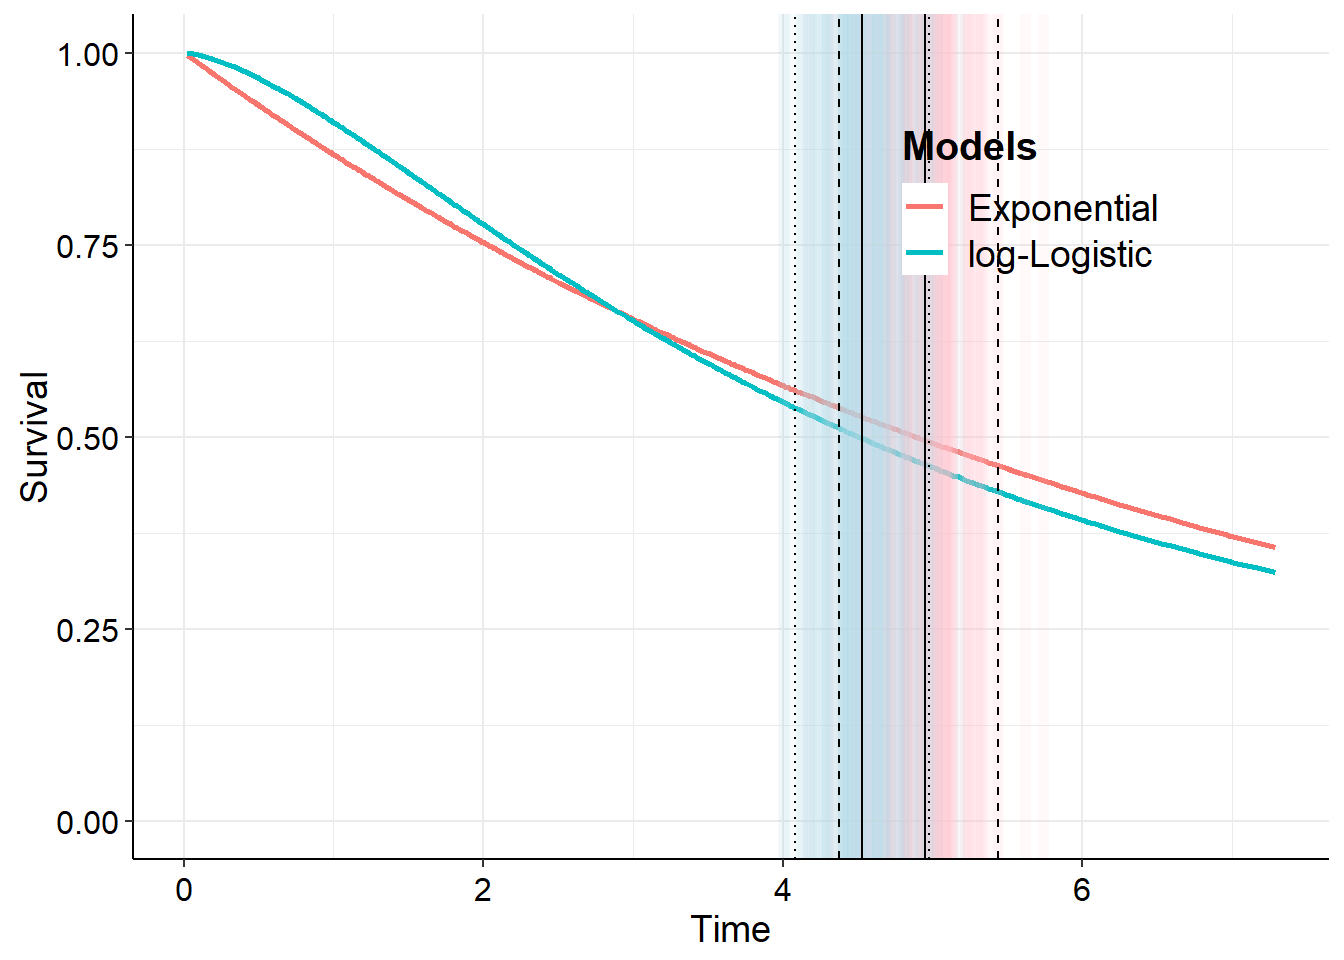
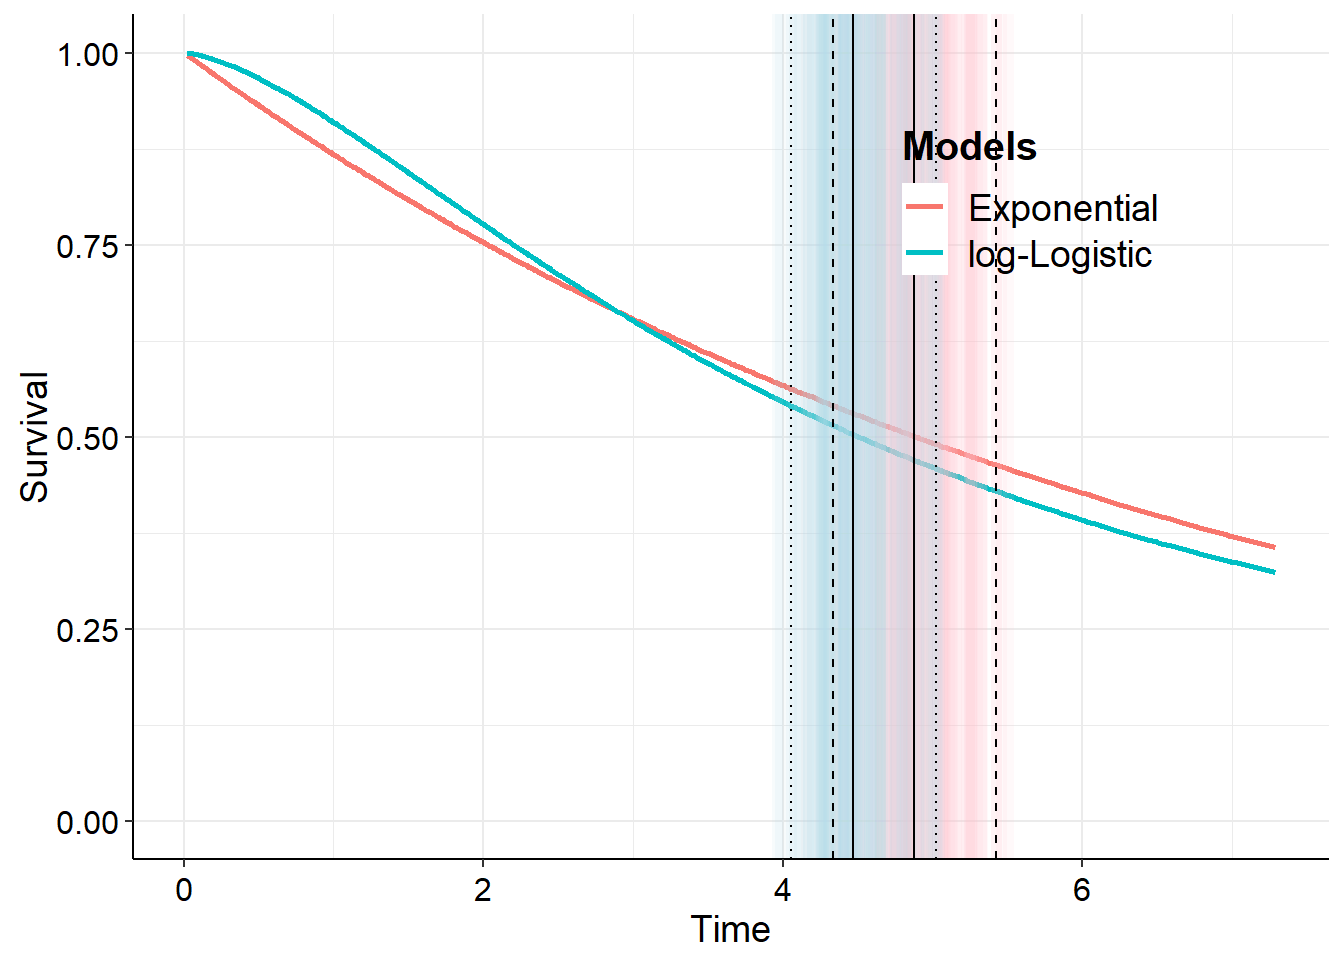
added general percentile plot

Changed region(s): [[0.5938, 0.2812, 0.7188, 0.875], [0.6562, 0.0312, 0.6875, 0.1875], [0.7188, 0.5, 0.7812, 0.5312]]

diff --git a/docs/medians.html b/docs/medians.html
@@ -318,8 +318,8 @@ Tip
 <div class="cell-output cell-output-stdout">
 <pre><code>
 Estimated average survival time distribution* 
-     mean        sd     2.5%  median    97.5%
- 4.522619 0.1142604 4.285068 4.52252 4.742877
+     mean        sd     2.5%   median   97.5%
+ 4.521216 0.1115196 4.292983 4.523981 4.72487
 
 *Computed over the range: [0.02192-7.28493] using 1000 simulations.
 NB: Check that the survival curves tend to 0 over this range!</code></pre>
@@ -396,8 +396,7 @@ t_{50} = - log (0.5)/\lambda
 <p>The log-logistic distribution has CDF</p>
 <p><span class="math display">\[
 \frac{1}{(1 + (t/\alpha)^{\beta})^2}
-\]</span></p>
-<p>Which leads to the median <span class="math inline">\(t_{50} = \alpha\)</span>, the shape parameter.</p>
+\]</span> Which leads to the median <span class="math inline">\(t_{50} = \alpha\)</span>, the shape parameter.</p>
 <div class="cell">
 <div class="sourceCode cell-code" id="cb14"><pre class="sourceCode r code-with-copy"><code class="sourceCode r"><span id="cb14-1"><a href="#cb14-1" aria-hidden="true" tabindex="-1"></a>sim <span class="ot">&lt;-</span> <span class="fu">list</span>()</span>
 <span id="cb14-2"><a href="#cb14-2" aria-hidden="true" tabindex="-1"></a>sim[[<span class="dv">1</span>]] <span class="ot">&lt;-</span> <span class="fu">make.surv</span>(fit2, <span class="at">mod =</span> <span class="dv">1</span>, <span class="at">nsim =</span> <span class="dv">100</span>)</span>
@@ -432,7 +431,38 @@ t_{50} = - log (0.5)/\lambda
 </section>
 <section id="multiple-percentiles" class="level3">
 <h3 class="anchored" data-anchor-id="multiple-percentiles">Multiple percentiles</h3>
-<p>https://stats.stackexchange.com/questions/19005/finding-median-survival-time-from-survival-function#:~:text=M%3D%7Bt(n%2B,S(M)%3D0.5.</p>
+<p>A general formula for the <span class="math inline">\(p\)</span>th sample percentile of the survival time distribution is computed as</p>
+<p><span class="math display">\[
+q_p = \frac{1}{2}(\inf\{t:1−\hat{S}(t) ≥ p\} + \sup\{t:1−\hat{S}(t) ≤ p\})
+\]</span></p>
+<div class="cell">
+<div class="sourceCode cell-code" id="cb16"><pre class="sourceCode r code-with-copy"><code class="sourceCode r"><span id="cb16-1"><a href="#cb16-1" aria-hidden="true" tabindex="-1"></a>mle <span class="ot">&lt;-</span> <span class="fu">fit.models</span>(<span class="at">formula =</span> <span class="fu">Surv</span>(recyrs, censrec) <span class="sc">~</span> <span class="dv">1</span>,</span>
+<span id="cb16-2"><a href="#cb16-2" aria-hidden="true" tabindex="-1"></a>                  <span class="at">data =</span> bc,</span>
+<span id="cb16-3"><a href="#cb16-3" aria-hidden="true" tabindex="-1"></a>                  <span class="at">distr =</span> <span class="st">"exp"</span>,</span>
+<span id="cb16-4"><a href="#cb16-4" aria-hidden="true" tabindex="-1"></a>                  <span class="at">method =</span> <span class="st">"mle"</span>)</span>
+<span id="cb16-5"><a href="#cb16-5" aria-hidden="true" tabindex="-1"></a></span>
+<span id="cb16-6"><a href="#cb16-6" aria-hidden="true" tabindex="-1"></a>xx <span class="ot">&lt;-</span> <span class="fu">make.surv</span>(mle)</span>
+<span id="cb16-7"><a href="#cb16-7" aria-hidden="true" tabindex="-1"></a>prctile <span class="ot">&lt;-</span> <span class="fl">0.75</span></span>
+<span id="cb16-8"><a href="#cb16-8" aria-hidden="true" tabindex="-1"></a><span class="fu">min</span>(xx<span class="sc">$</span>S[[<span class="dv">1</span>]]<span class="sc">$</span>t[xx<span class="sc">$</span>S[[<span class="dv">1</span>]]<span class="sc">$</span>S <span class="sc">&lt;</span> prctile])</span></code><button title="Copy to Clipboard" class="code-copy-button"><i class="bi"></i></button></pre></div>
+<div class="cell-output cell-output-stdout">
+<pre><code>[1] 2.030137</code></pre>
+</div>
+<div class="sourceCode cell-code" id="cb18"><pre class="sourceCode r code-with-copy"><code class="sourceCode r"><span id="cb18-1"><a href="#cb18-1" aria-hidden="true" tabindex="-1"></a>prctile <span class="ot">&lt;-</span> <span class="fu">c</span>(<span class="fl">0.975</span>, <span class="fl">0.75</span>, <span class="fl">0.5</span>, <span class="fl">0.25</span>, <span class="fl">0.025</span>)</span>
+<span id="cb18-2"><a href="#cb18-2" aria-hidden="true" tabindex="-1"></a>prctile_times <span class="ot">&lt;-</span> purrr<span class="sc">::</span><span class="fu">map_dbl</span>(prctile, <span class="sc">~</span><span class="fu">min</span>(xx<span class="sc">$</span>S[[<span class="dv">1</span>]]<span class="sc">$</span>t[xx<span class="sc">$</span>S[[<span class="dv">1</span>]]<span class="sc">$</span>S <span class="sc">&lt;</span> .x]))</span></code><button title="Copy to Clipboard" class="code-copy-button"><i class="bi"></i></button></pre></div>
+<div class="cell-output cell-output-stderr">
+<pre><code>Warning in min(xx$S[[1]]$t[xx$S[[1]]$S &lt; .x]): no non-missing arguments to min;
+returning Inf
+
+Warning in min(xx$S[[1]]$t[xx$S[[1]]$S &lt; .x]): no non-missing arguments to min;
+returning Inf</code></pre>
+</div>
+<div class="sourceCode cell-code" id="cb20"><pre class="sourceCode r code-with-copy"><code class="sourceCode r"><span id="cb20-1"><a href="#cb20-1" aria-hidden="true" tabindex="-1"></a><span class="fu">plot</span>(mle) <span class="sc">+</span> </span>
+<span id="cb20-2"><a href="#cb20-2" aria-hidden="true" tabindex="-1"></a>  <span class="fu">geom_vline</span>(<span class="at">xintercept =</span> prctile_times) <span class="sc">+</span></span>
+<span id="cb20-3"><a href="#cb20-3" aria-hidden="true" tabindex="-1"></a>  <span class="fu">annotate</span>(<span class="st">"text"</span>, <span class="at">x =</span> prctile_times <span class="sc">+</span> <span class="fl">0.5</span>, <span class="at">y =</span> <span class="fl">0.25</span>, <span class="at">label =</span> prctile)</span></code><button title="Copy to Clipboard" class="code-copy-button"><i class="bi"></i></button></pre></div>
+<div class="cell-output-display">
+<p><img src="medians_files/figure-html/unnamed-chunk-10-1.png" class="img-fluid" width="672"></p>
+</div>
+</div>
 </section>
 <section id="compare-with-kaplan-meier" class="level3">
 <h3 class="anchored" data-anchor-id="compare-with-kaplan-meier">Compare with Kaplan-Meier</h3>
@@ -440,16 +470,16 @@ t_{50} = - log (0.5)/\lambda
 <section id="multiple-groups" class="level3">
 <h3 class="anchored" data-anchor-id="multiple-groups">Multiple groups</h3>
 <div class="cell">
-<div class="sourceCode cell-code" id="cb16"><pre class="sourceCode r code-with-copy"><code class="sourceCode r"><span id="cb16-1"><a href="#cb16-1" aria-hidden="true" tabindex="-1"></a><span class="co"># Fits the same model using the 3 inference methods</span></span>
-<span id="cb16-2"><a href="#cb16-2" aria-hidden="true" tabindex="-1"></a>mle <span class="ot">&lt;-</span> <span class="fu">fit.models</span>(<span class="at">formula =</span> <span class="fu">Surv</span>(recyrs,censrec) <span class="sc">~</span> group,</span>
-<span id="cb16-3"><a href="#cb16-3" aria-hidden="true" tabindex="-1"></a>                  <span class="at">data =</span> bc,</span>
-<span id="cb16-4"><a href="#cb16-4" aria-hidden="true" tabindex="-1"></a>                  <span class="at">distr =</span> <span class="st">"exp"</span>,</span>
-<span id="cb16-5"><a href="#cb16-5" aria-hidden="true" tabindex="-1"></a>                  <span class="at">method =</span> <span class="st">"mle"</span>)</span>
-<span id="cb16-6"><a href="#cb16-6" aria-hidden="true" tabindex="-1"></a>mle</span></code><button title="Copy to Clipboard" class="code-copy-button"><i class="bi"></i></button></pre></div>
+<div class="sourceCode cell-code" id="cb21"><pre class="sourceCode r code-with-copy"><code class="sourceCode r"><span id="cb21-1"><a href="#cb21-1" aria-hidden="true" tabindex="-1"></a><span class="co"># Fits the same model using the 3 inference methods</span></span>
+<span id="cb21-2"><a href="#cb21-2" aria-hidden="true" tabindex="-1"></a>mle <span class="ot">&lt;-</span> <span class="fu">fit.models</span>(<span class="at">formula =</span> <span class="fu">Surv</span>(recyrs,censrec) <span class="sc">~</span> group,</span>
+<span id="cb21-3"><a href="#cb21-3" aria-hidden="true" tabindex="-1"></a>                  <span class="at">data =</span> bc,</span>
+<span id="cb21-4"><a href="#cb21-4" aria-hidden="true" tabindex="-1"></a>                  <span class="at">distr =</span> <span class="st">"exp"</span>,</span>
+<span id="cb21-5"><a href="#cb21-5" aria-hidden="true" tabindex="-1"></a>                  <span class="at">method =</span> <span class="st">"mle"</span>)</span>
+<span id="cb21-6"><a href="#cb21-6" aria-hidden="true" tabindex="-1"></a>mle</span></code><button title="Copy to Clipboard" class="code-copy-button"><i class="bi"></i></button></pre></div>
 <div class="cell-output cell-output-stdout">
 <pre><code>
 Model fit for the Exponential model, obtained using Flexsurvreg 
-(Maximum Likelihood Estimate). Running time: 0.010 seconds
+(Maximum Likelihood Estimate). Running time: 0.020 seconds
 
                  mean         se      L95%      U95%
 rate        0.0603838 0.00845542 0.0458911 0.0794534
@@ -460,21 +490,21 @@ Model fitting summaries
 Akaike Information Criterion (AIC)....: 1668.212
 Bayesian Information Criterion (BIC)..: 1681.805</code></pre>
 </div>
-<div class="sourceCode cell-code" id="cb18"><pre class="sourceCode r code-with-copy"><code class="sourceCode r"><span id="cb18-1"><a href="#cb18-1" aria-hidden="true" tabindex="-1"></a>xx <span class="ot">&lt;-</span> <span class="fu">make.surv</span>(mle)</span>
-<span id="cb18-2"><a href="#cb18-2" aria-hidden="true" tabindex="-1"></a></span>
-<span id="cb18-3"><a href="#cb18-3" aria-hidden="true" tabindex="-1"></a>purrr<span class="sc">::</span><span class="fu">map_dbl</span>(xx<span class="sc">$</span>S, <span class="sc">~</span> <span class="fu">min</span>(.x<span class="sc">$</span>t[.x<span class="sc">$</span>S <span class="sc">&lt;</span> <span class="fl">0.5</span>]))</span></code><button title="Copy to Clipboard" class="code-copy-button"><i class="bi"></i></button></pre></div>
+<div class="sourceCode cell-code" id="cb23"><pre class="sourceCode r code-with-copy"><code class="sourceCode r"><span id="cb23-1"><a href="#cb23-1" aria-hidden="true" tabindex="-1"></a>xx <span class="ot">&lt;-</span> <span class="fu">make.surv</span>(mle)</span>
+<span id="cb23-2"><a href="#cb23-2" aria-hidden="true" tabindex="-1"></a></span>
+<span id="cb23-3"><a href="#cb23-3" aria-hidden="true" tabindex="-1"></a>purrr<span class="sc">::</span><span class="fu">map_dbl</span>(xx<span class="sc">$</span>S, <span class="sc">~</span> <span class="fu">min</span>(.x<span class="sc">$</span>t[.x<span class="sc">$</span>S <span class="sc">&lt;</span> <span class="fl">0.5</span>]))</span></code><button title="Copy to Clipboard" class="code-copy-button"><i class="bi"></i></button></pre></div>
 <div class="cell-output cell-output-stderr">
 <pre><code>Warning in min(.x$t[.x$S &lt; 0.5]): no non-missing arguments to min; returning Inf</code></pre>
 </div>
 <div class="cell-output cell-output-stdout">
-<pre><code>[1]      Inf 5.043836 2.509589</code></pre>
+<pre><code>[1]      Inf 5.041096 2.509589</code></pre>
 </div>
-<div class="sourceCode cell-code" id="cb21"><pre class="sourceCode r code-with-copy"><code class="sourceCode r"><span id="cb21-1"><a href="#cb21-1" aria-hidden="true" tabindex="-1"></a>rate <span class="ot">&lt;-</span> mle<span class="sc">$</span>models<span class="sc">$</span>Exponential<span class="sc">$</span>coefficients</span>
-<span id="cb21-2"><a href="#cb21-2" aria-hidden="true" tabindex="-1"></a></span>
-<span id="cb21-3"><a href="#cb21-3" aria-hidden="true" tabindex="-1"></a>meantime <span class="ot">&lt;-</span> <span class="sc">-</span><span class="fu">log</span>(<span class="fl">0.5</span>)<span class="sc">/</span>rate</span>
-<span id="cb21-4"><a href="#cb21-4" aria-hidden="true" tabindex="-1"></a></span>
-<span id="cb21-5"><a href="#cb21-5" aria-hidden="true" tabindex="-1"></a></span>
-<span id="cb21-6"><a href="#cb21-6" aria-hidden="true" tabindex="-1"></a><span class="do">## plots</span></span></code><button title="Copy to Clipboard" class="code-copy-button"><i class="bi"></i></button></pre></div>
+<div class="sourceCode cell-code" id="cb26"><pre class="sourceCode r code-with-copy"><code class="sourceCode r"><span id="cb26-1"><a href="#cb26-1" aria-hidden="true" tabindex="-1"></a>rate <span class="ot">&lt;-</span> mle<span class="sc">$</span>models<span class="sc">$</span>Exponential<span class="sc">$</span>coefficients</span>
+<span id="cb26-2"><a href="#cb26-2" aria-hidden="true" tabindex="-1"></a></span>
+<span id="cb26-3"><a href="#cb26-3" aria-hidden="true" tabindex="-1"></a>meantime <span class="ot">&lt;-</span> <span class="sc">-</span><span class="fu">log</span>(<span class="fl">0.5</span>)<span class="sc">/</span>rate</span>
+<span id="cb26-4"><a href="#cb26-4" aria-hidden="true" tabindex="-1"></a></span>
+<span id="cb26-5"><a href="#cb26-5" aria-hidden="true" tabindex="-1"></a></span>
+<span id="cb26-6"><a href="#cb26-6" aria-hidden="true" tabindex="-1"></a><span class="do">## plots</span></span></code><button title="Copy to Clipboard" class="code-copy-button"><i class="bi"></i></button></pre></div>
 </div>
 
 

diff --git a/docs/restricted-means.html b/docs/restricted-means.html
@@ -274,12 +274,6 @@ code span.wa { color: #60a0b0; font-weight: bold; font-style: italic; } /* Warni
 <p>Restricted means analysis can be used either for the base case analysis or as a sensitivity analysis. The method as used in the NICE TAs generally involved simply using all the available data to estimate the area under the Kaplan Meier curve up until the final observation, similar to an approach presented in the statistical literature by <span class="citation" data-cites="Moeschberger1985">(<a href="#ref-Moeschberger1985" role="doc-biblioref"><strong>Moeschberger1985?</strong></a>)</span>. Generally, a restricted means approach has only been taken when trial data was relatively complete compared to situations where parametric modelling was used.</p>
 <div class="cell">
 <div class="sourceCode cell-code" id="cb1"><pre class="sourceCode r code-with-copy"><code class="sourceCode r"><span id="cb1-1"><a href="#cb1-1" aria-hidden="true" tabindex="-1"></a><span class="fu">library</span>(survRM2)</span></code><button title="Copy to Clipboard" class="code-copy-button"><i class="bi"></i></button></pre></div>
-<div class="cell-output cell-output-stderr">
-<pre><code>Warning: package 'survRM2' was built under R version 4.1.3</code></pre>
-</div>
-<div class="cell-output cell-output-stderr">
-<pre><code>Loading required package: survival</code></pre>
-</div>
 </div>
 
 
